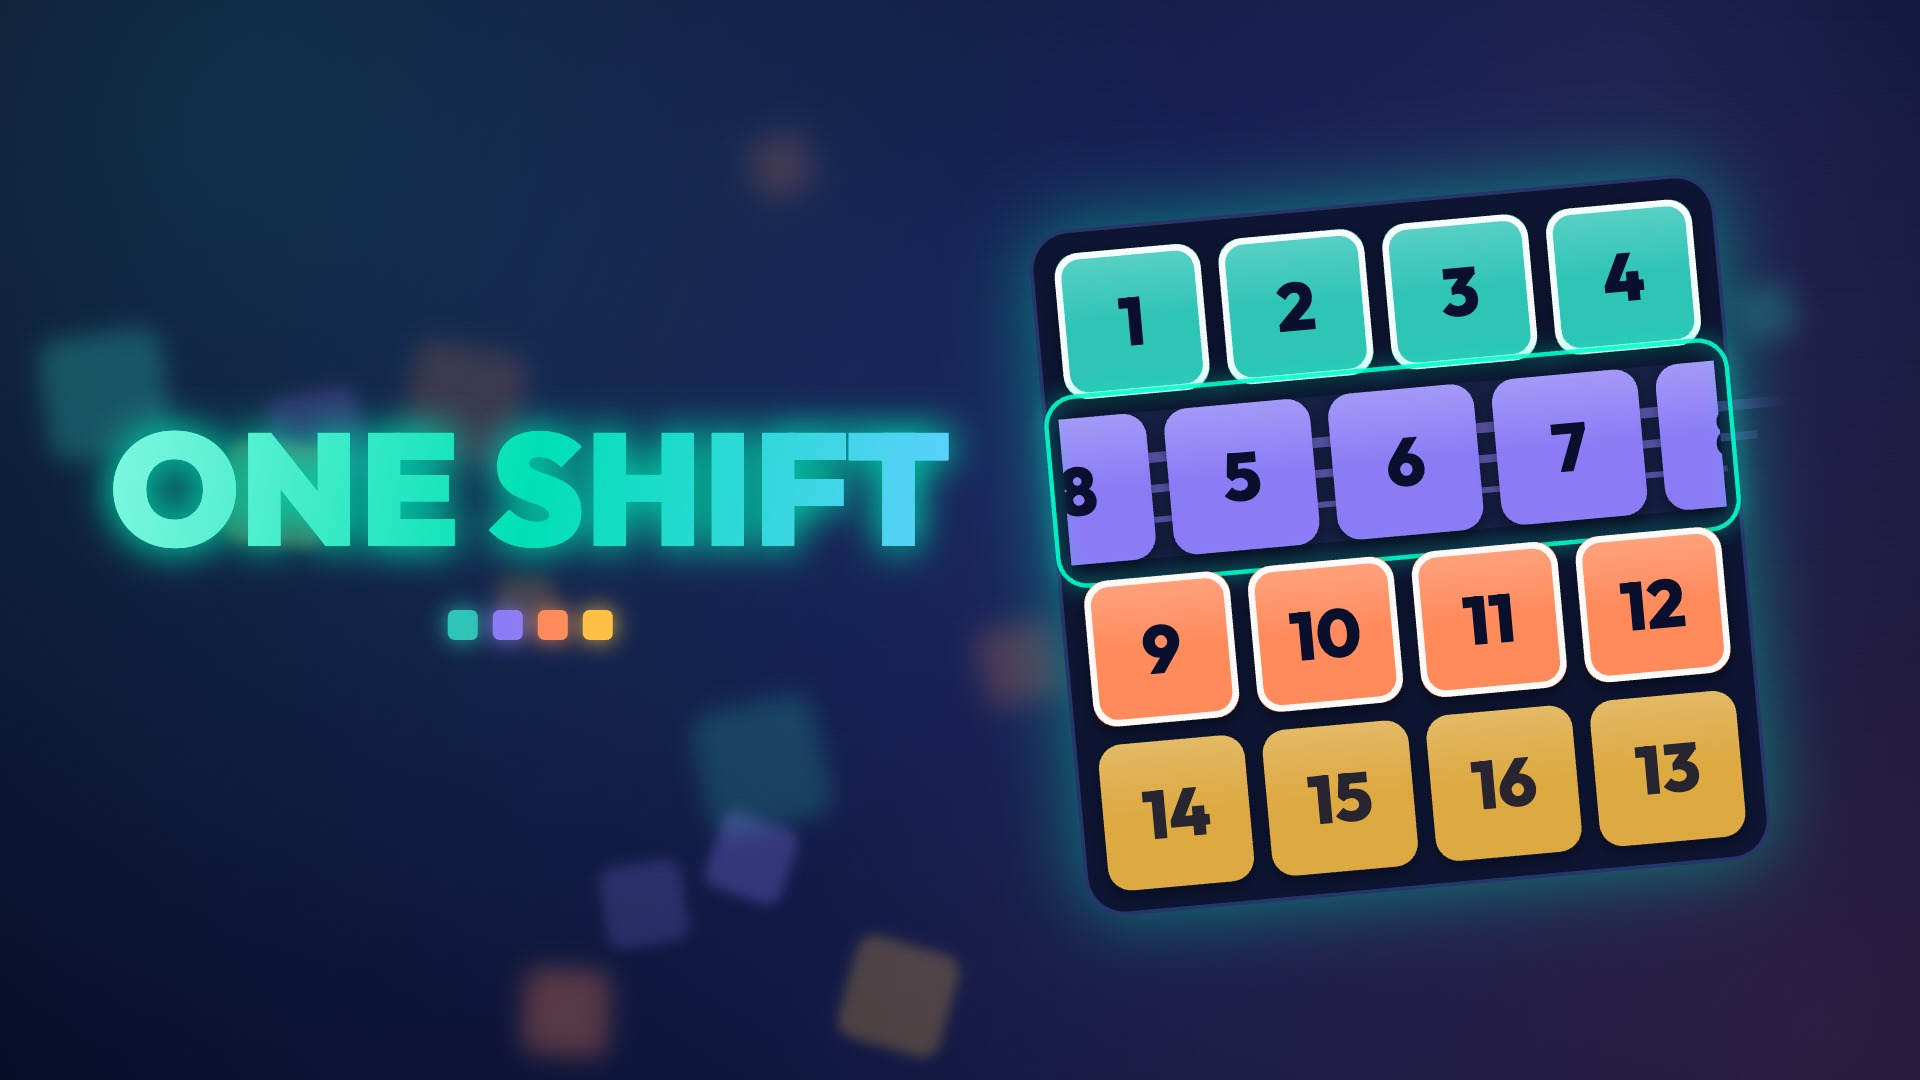
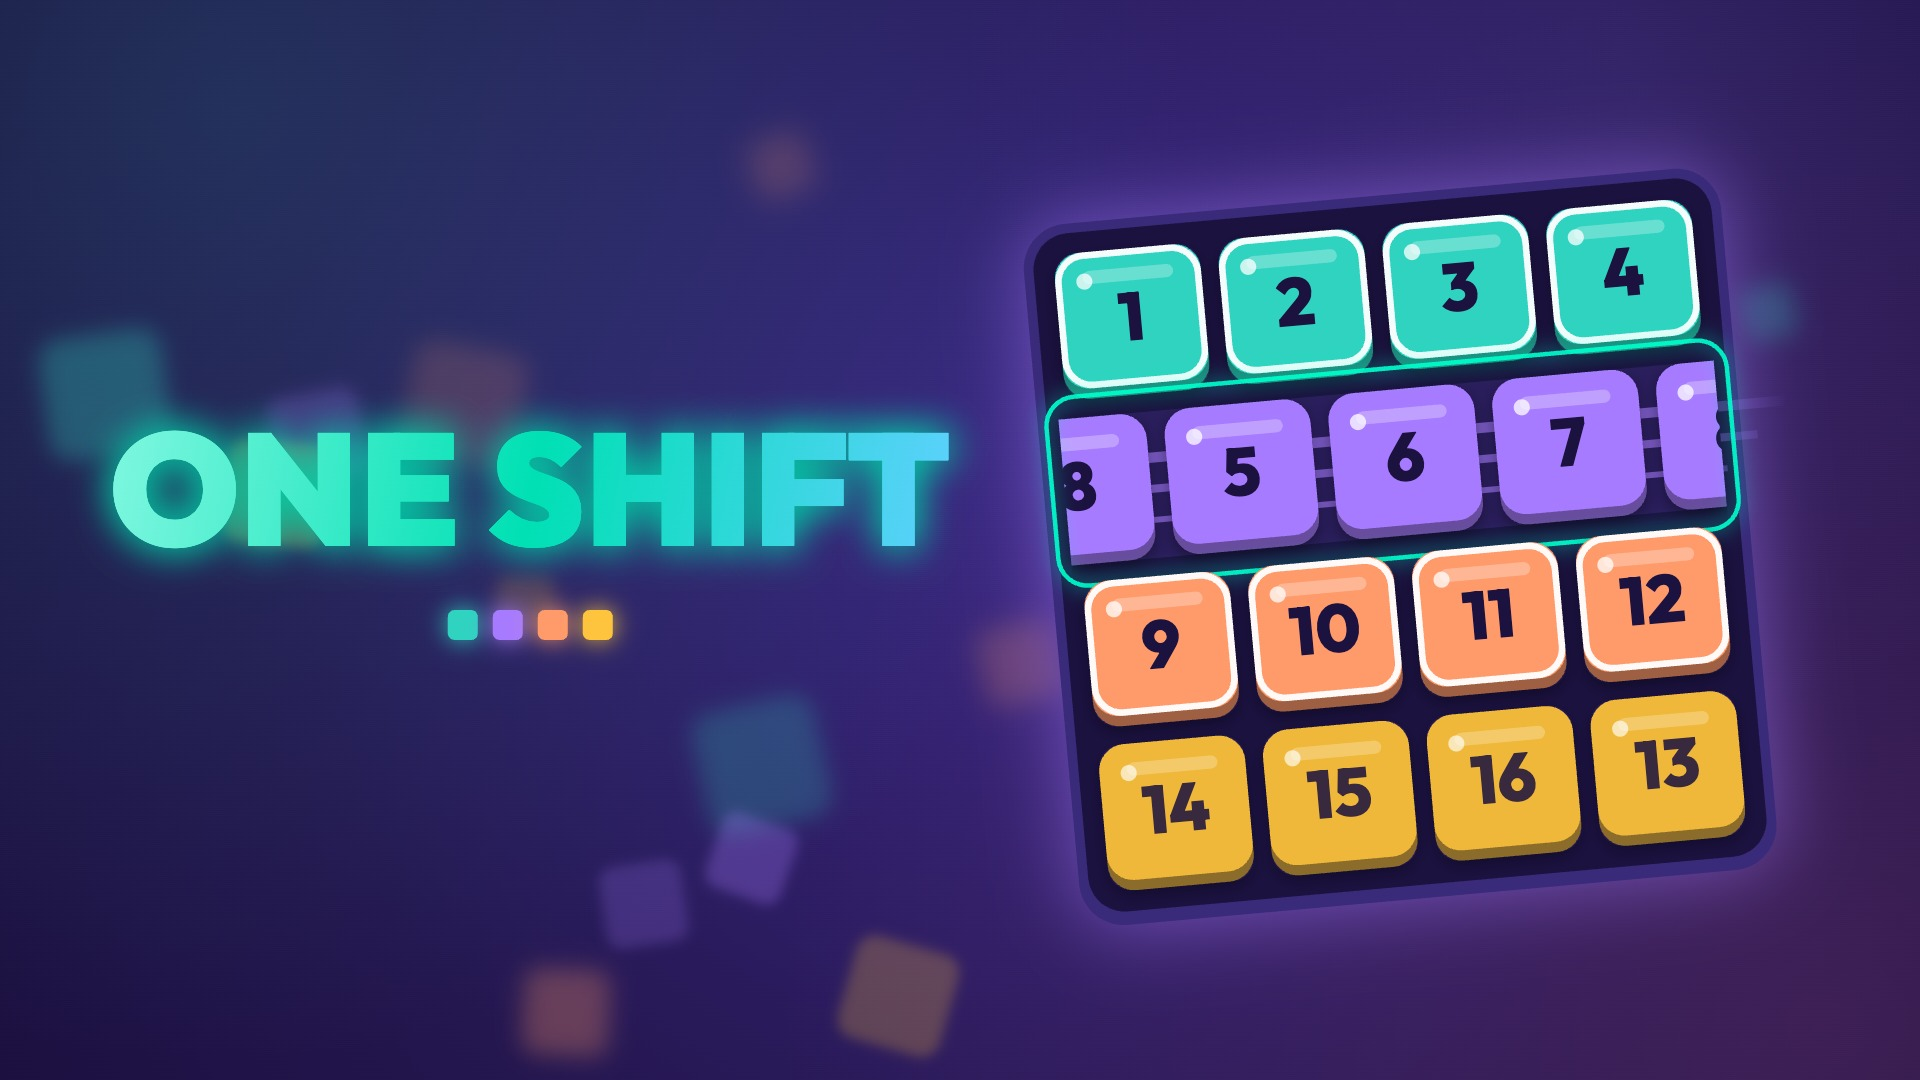
fix(audio): remove ticking and crackle; covers match the new look
Audio (measured with offline renders and stall tests)
- Removed the hi-hat layer: it was the steady "tik tik" (33 sharp sample
  jumps per 10 s of music, now 0)
- Arpeggio an octave lower with a softer attack; gentle low-pass on music
- Scheduler drops notes missed during a main-thread stall instead of
  playing them all at once (0 late notes across repeated 450 ms stalls)
- Same effect can fire at most once per 40-80 ms: multi-tile drags stacked
  slide sounds to a 1.10 peak (clipping crackle), now 0.10
- Brick-wall limiter at the end of the chain; gentler compressor (ratio 4)
- Rush bonus sound uses a triangle wave instead of a harsh square wave

Covers
- Regenerated in the Gem Workshop style (violet, gem tiles, same palette as
  the game); title is still the only text, no borders or icons

diff --git a/src/audio/SoundManager.ts b/src/audio/SoundManager.ts
@@ -27,8 +27,9 @@ export function triggerHaptic(pattern: number | number[] = 15) {
 
 // ─── Background music ─────────────────────────────────────────────────────────
 // A light, looping "workshop" groove (I–vi–IV–V in C, 96 BPM): soft chord pad,
-// round bass, plucked arpeggio and quiet off-beat hats. Notes are scheduled a
-// little ahead on the audio clock, so timing stays tight even if the page stutters.
+// round bass and a mellow plucked arpeggio, all through a gentle low-pass. Notes
+// are scheduled a little ahead on the audio clock; if the page stalls, missed notes
+// are dropped rather than played late in a burst.
 const BPM = 96;
 const STEP = 60 / BPM / 4;                    // one 16th note, seconds
 const CHORDS: number[][] = [                  // MIDI notes per bar
@@ -49,7 +50,6 @@ class SoundManager {
   private sdkMuted = false;       // CrazyGames platform mute: overrides both
   private bgmPlaying = false;
   private musicBus: GainNode | null = null;
-  private noise: AudioBuffer | null = null;
   private nextNoteTime = 0;
   private step16 = 0;
   private schedTimer: number | null = null;
@@ -136,13 +136,21 @@ class SoundManager {
         this.masterGain.gain.setValueAtTime(this.sdkMuted ? 0 : 1, this.ctx.currentTime);
         // Keeps the mix under 0 dB during fast tapping
         this.compressor = this.ctx.createDynamicsCompressor();
-        this.compressor.threshold.setValueAtTime(-12, this.ctx.currentTime);
+        this.compressor.threshold.setValueAtTime(-10, this.ctx.currentTime);
         this.compressor.knee.setValueAtTime(30, this.ctx.currentTime);
-        this.compressor.ratio.setValueAtTime(12, this.ctx.currentTime);
-        this.compressor.attack.setValueAtTime(0.003, this.ctx.currentTime);
-        this.compressor.release.setValueAtTime(0.15, this.ctx.currentTime);
+        this.compressor.ratio.setValueAtTime(4, this.ctx.currentTime);
+        this.compressor.attack.setValueAtTime(0.005, this.ctx.currentTime);
+        this.compressor.release.setValueAtTime(0.25, this.ctx.currentTime);
+        // Brick-wall limiter last in the chain: stacked effects can never clip
+        const limiter = this.ctx.createDynamicsCompressor();
+        limiter.threshold.setValueAtTime(-3, this.ctx.currentTime);
+        limiter.knee.setValueAtTime(0, this.ctx.currentTime);
+        limiter.ratio.setValueAtTime(20, this.ctx.currentTime);
+        limiter.attack.setValueAtTime(0.001, this.ctx.currentTime);
+        limiter.release.setValueAtTime(0.1, this.ctx.currentTime);
         this.masterGain.connect(this.compressor);
-        this.compressor.connect(this.ctx.destination);
+        this.compressor.connect(limiter);
+        limiter.connect(this.ctx.destination);
       }
     }
     // iOS also reports a non-standard 'interrupted' state
@@ -200,6 +208,17 @@ class SoundManager {
     return !this.musicOn();
   }
 
+  // The same effect fired several times in one instant (multi-tile drags, fast taps)
+  // stacks into a loud crackle; allow each effect at most once per `ms`.
+  private lastSfx: Record<string, number> = {};
+
+  private allow(name: string, ms: number): boolean {
+    const now = performance.now();
+    if (now - (this.lastSfx[name] ?? -1e9) < ms) return false;
+    this.lastSfx[name] = now;
+    return true;
+  }
+
   // ─── Music sequencer ─────────────────────────────────────────────────────────
   startBGM() {
     if (!this.musicOn() || this.bgmPlaying) return;
@@ -209,13 +228,11 @@ class SoundManager {
     this.musicBus = this.ctx.createGain();
     this.musicBus.gain.setValueAtTime(0.0001, this.ctx.currentTime);
     this.musicBus.gain.linearRampToValueAtTime(1, this.ctx.currentTime + 1.5);
-    this.musicBus.connect(this.masterGain);
-    if (!this.noise) {
-      const len = Math.floor(this.ctx.sampleRate * 0.05);
-      this.noise = this.ctx.createBuffer(1, len, this.ctx.sampleRate);
-      const d = this.noise.getChannelData(0);
-      for (let i = 0; i < len; i++) d[i] = Math.random() * 2 - 1;
-    }
+    const tone = this.ctx.createBiquadFilter();
+    tone.type = 'lowpass';
+    tone.frequency.setValueAtTime(3200, this.ctx.currentTime);
+    this.musicBus.connect(tone);
+    tone.connect(this.masterGain);
     this.nextNoteTime = this.ctx.currentTime + 0.1;
     this.step16 = 0;
     this.schedule();
@@ -242,7 +259,14 @@ class SoundManager {
 
   private schedule() {
     if (!this.bgmPlaying || !this.ctx || !this.musicBus) return;
-    const ahead = this.ctx.currentTime + 0.3;
+    const now = this.ctx.currentTime;
+    // After a stall (busy main thread, background tab) skip the missed notes so they
+    // are not all started at once.
+    while (this.nextNoteTime < now + 0.01) {
+      this.nextNoteTime += STEP;
+      this.step16 = (this.step16 + 1) % (16 * CHORDS.length);
+    }
+    const ahead = now + 0.3;
     while (this.nextNoteTime < ahead) {
       this.playStep(this.step16, this.nextNoteTime);
       this.nextNoteTime += STEP;
@@ -283,30 +307,16 @@ class SoundManager {
     // Bass: root on beats 1 and 3, a fifth on the "and" of 4
     if (s === 0 || s === 8) this.voice('sine', midi(chord[0] - 24), t, STEP * 6, 0.07, 0.01);
     if (s === 14) this.voice('sine', midi(chord[2] - 24), t, STEP * 2, 0.05, 0.01);
-    // Plucked arpeggio on 8th notes, an octave up
+    // Mellow plucked arpeggio on 8th notes
     if (s % 2 === 0) {
       const idx = ARP[(s / 2) % ARP.length];
-      if (idx >= 0) this.voice('sine', midi(chord[idx] + 12), t, STEP * 3, 0.035, 0.004);
-    }
-    // Hats on the off-beats
-    if (s % 4 === 2 && this.noise && this.ctx) {
-      const src = this.ctx.createBufferSource();
-      src.buffer = this.noise;
-      const f = this.ctx.createBiquadFilter();
-      f.type = 'highpass';
-      f.frequency.setValueAtTime(7000, t);
-      const g = this.ctx.createGain();
-      g.gain.setValueAtTime(0.018, t);
-      g.gain.exponentialRampToValueAtTime(0.0001, t + 0.04);
-      src.connect(f); f.connect(g); g.connect(this.musicBus!);
-      src.start(t);
-      src.stop(t + 0.05);
+      if (idx >= 0) this.voice('sine', midi(chord[idx]), t, STEP * 3, 0.03, 0.015);
     }
   }
 
   // ─── SFX: Button Click ──────────────────────────────────────────────────────
   playClick() {
-    if (this.isMuted()) return;
+    if (this.isMuted() || !this.allow('click', 40)) return;
     this.initCtx();
     if (!this.ctx) return;
 
@@ -333,7 +343,7 @@ class SoundManager {
 
   // ─── SFX: Tile Shift Whoosh ─────────────────────────────────────────────────
   playSlide() {
-    if (this.isMuted()) return;
+    if (this.isMuted() || !this.allow('slide', 50)) return;
     this.initCtx();
     if (!this.ctx) return;
 
@@ -346,7 +356,7 @@ class SoundManager {
     osc.frequency.exponentialRampToValueAtTime(130, now + 0.11);
 
     gain.gain.setValueAtTime(0.0001, now);
-    gain.gain.linearRampToValueAtTime(0.14, now + 0.015);
+    gain.gain.linearRampToValueAtTime(0.1, now + 0.015);
     gain.gain.exponentialRampToValueAtTime(0.0001, now + 0.11);
 
     const out = this.masterGain || this.ctx.destination;
@@ -359,7 +369,7 @@ class SoundManager {
 
   // ─── SFX: Tile Solved Chime ─────────────────────────────────────────────────
   playTileSolved() {
-    if (this.isMuted()) return;
+    if (this.isMuted() || !this.allow('solved', 60)) return;
     this.initCtx();
     if (!this.ctx) return;
 
@@ -412,6 +422,7 @@ class SoundManager {
 
   // ─── SFX: Blocked move (locked / wrong-way line) ────────────────────────────
   playBlocked() {
+    if (!this.allow('blocked', 80)) return;
     this.tone(180, 120, 0.09, 0.12, 'triangle');
   }
 
@@ -423,7 +434,7 @@ class SoundManager {
 
   // ─── SFX: Rush time bonus ───────────────────────────────────────────────────
   playBonus() {
-    this.tone(990, 1480, 0.12, 0.1, 'square');
+    this.tone(990, 1480, 0.14, 0.09, 'triangle');
   }
 
   // ─── SFX: Victory Fanfare Chord ─────────────────────────────────────────────
